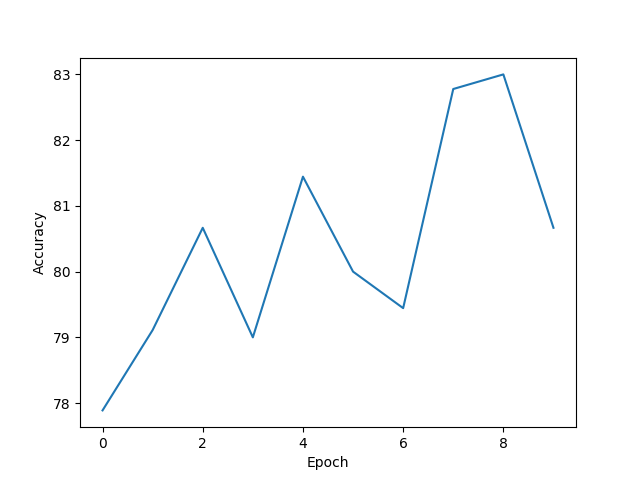
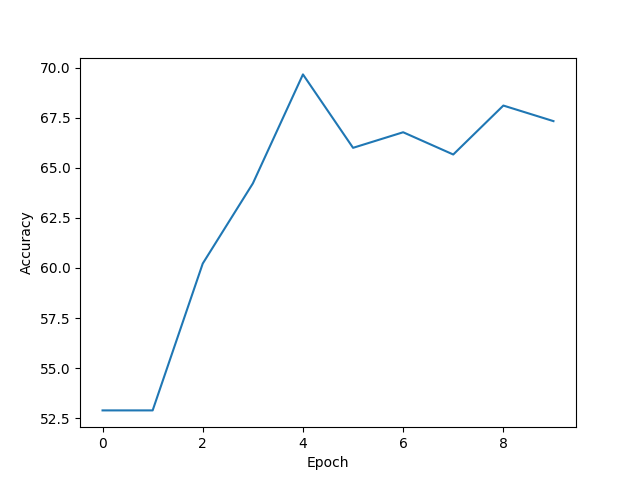
Edit back propagation

diff --git a/neural_net_2.py b/neural_net_2.py
@@ -16,10 +16,10 @@ class NeuralNet():
         self.values_o = np.zeros(outputs)
 
         # Initialise the weights between -0.5 and 0.5
-        np.random.seed(1000)
-        self.weights_ih = np.random.rand(hidden, inputs) - 0.5
-        self.weights_hh = np.random.rand(hidden, hidden) - 0.5
-        self.weights_ho = np.random.rand(outputs, hidden) - 0.5
+        #np.random.seed(1000)
+        self.weights_ih = np.random.uniform(low = -0.5, high = 0.5, size= (inputs, hidden))
+        self.weights_hh = np.random.uniform(low = -0.5, high = 0.5, size = (hidden, hidden))
+        self.weights_ho = np.random.uniform(low = -0.5, high = 0.5, size= (hidden, outputs))
 
         # Initialise the biases
         self.bias_h1 = np.zeros((1, hidden))
@@ -28,7 +28,7 @@ class NeuralNet():
 
     # Calculate weighted sum
     def weighted_sum(self, inputs, weights, bias):
-        return np.dot(inputs, weights.T) + bias
+        return np.dot(inputs, weights) + bias
 
     # Step forward and back propagation processing
     def feed_forward(self, data):
@@ -43,30 +43,30 @@ class NeuralNet():
         # Process output layer
         output = self.weighted_sum(h2, self.weights_ho, self.bias_o)
         self.values_o = self.sigmoid(output)
-        print(self.values_o.mean())
+        print(self.values_o)
+
+    def loss_der(self, values, loss):
+        return (2 * loss) * self.sigmoid_der(values)
 
     # Back propagation
     def back_prop(self, data, actual):
         # Get the difference between predicted and actual value
         loss = np.subtract(actual, self.values_o)
 
-        o_delta = loss * self.sigmoid_der(self.values_o)
-
-        o_error = np.dot(o_delta, self.weights_ho)
-        h2_delta = o_error * self.sigmoid_der(self.values_h2)
-
-        h2_error = np.dot(h2_delta, self.weights_hh.T)
-        h1_delta = h2_error * self.sigmoid_der(self.values_h1)
+        # Process hidden layer 2
+        ho_gradient = self.loss_der(self.values_o, loss)
+        hh_gradient = np.dot(self.loss_der(self.values_o, loss), self.weights_ho.T) * self.sigmoid_der(self.values_h2)
+        ih_gradient = np.dot(self.loss_der(self.values_h2, loss), self.weights_hh.T) * self.sigmoid_der(self.values_h1)
         
         # Update the weights and biases between hidden layer 2 and output layer
-        self.weights_ho += self.update_weights(self.values_h2, loss)
-        self.bias_o += self.update_biases(loss)
+        self.weights_ho += self.update_weights(self.values_h2, ho_gradient)
+        self.bias_o += self.update_biases(ho_gradient)
 
-        self.weights_hh += self.update_weights(self.values_h1, h2_delta)
-        self.bias_h2 += self.update_biases(h2_delta)
+        self.weights_hh += self.update_weights(self.values_h1, hh_gradient)
+        self.bias_h2 += self.update_biases(hh_gradient)
 
-        self.weights_ih += self.update_weights(data, h1_delta)
-        self.bias_h1 += self.update_biases(h1_delta)
+        self.weights_ih += self.update_weights(data, ih_gradient)
+        self.bias_h1 += self.update_biases(ih_gradient)
 
         # ----------------------------------------
 
@@ -85,8 +85,6 @@ class NeuralNet():
         # # Update weights and biases between inputs and first hidden layer
         # self.weights_ih += self.update_weights(data, hidden1_gradient)
         # self.bias_h1 += self.update_biases(hidden1_gradient)
-        
-        return loss
 
     # Update biases
     def update_biases(self, gradient):
@@ -94,7 +92,7 @@ class NeuralNet():
 
     # Update the weights
     def update_weights(self, inputs, gradient):
-        return (self.learning_rate * np.dot(inputs.T, gradient)).T
+        return self.learning_rate * np.dot(inputs.T, gradient)
 
     # Get the derivative of the sigmoid function
     def sigmoid_der(self, x):
@@ -104,11 +102,13 @@ class NeuralNet():
     def sigmoid(self, x):
         return 1 / (1 + np.exp(-x))
 
-    def get_accuracy(self, error):
+    def get_accuracy(self, actual):
         # If the RMSE is more than .5 away, respond incorrectly classified
+        loss = np.subtract(actual, self.values_o)
         acc = 0
-        for i in error:
-            if i < 0.5:
+
+        for i in loss:
+            if abs(i) < 0.5:
                 acc += 1
 
         return acc

diff --git a/section3.py b/section3.py
@@ -17,7 +17,7 @@ class Models:
 
     def create_nn_model(self, hidden_nodes):
         # Create a neural net with 2 hidden layers using standardised nuclear plant data
-        self.nn = NeuralNet(self.train_x.shape[1], hidden_nodes, 1, 0.5)
+        self.nn = NeuralNet(self.train_x.shape[1], hidden_nodes, 1, 0.01)
 
     # divide dataset into mini batches
     def get_mini_batches(self, train, test, batch_size):
@@ -57,9 +57,9 @@ class Models:
                 self.nn.feed_forward(batch)
 
                 # Update the weights based on the data error
-                error = self.nn.back_prop(batch, y_train[i])
+                self.nn.back_prop(batch, y_train[i])
 
-                acc += self.nn.get_accuracy(error)
+                acc += self.nn.get_accuracy(y_train[i])
    
             total_acc[m] += acc / len(x_train) 
             print(f'Accuracy: {total_acc[m]}')
@@ -71,7 +71,9 @@ class Models:
     def test_nn(self):
         #total = 0
         self.nn.feed_forward(self.test_x)
-        #total += self.nn.get_accuracy(self.nn.values[-1], self.test_y[i])
+        total = self.nn.get_accuracy(self.test_y)
+
+        print(f'Test Accuracy: {total}%')
 
         # acc = (total / len(self.test_x))
         #return acc

diff --git a/main.py b/main.py
@@ -47,6 +47,7 @@ def main():
     # Train Nerual Network with 500 nodes and 2 hidden layers
 
     # Apply test data to NN
+    #models.test_nn()
 
     # Create Random forest with 1000 trees and 5 or 50 leaf nodes
 
